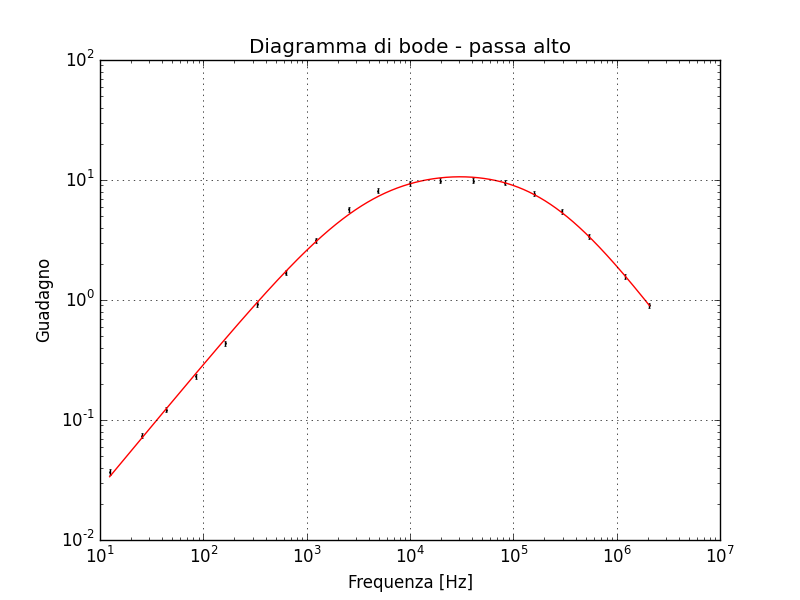
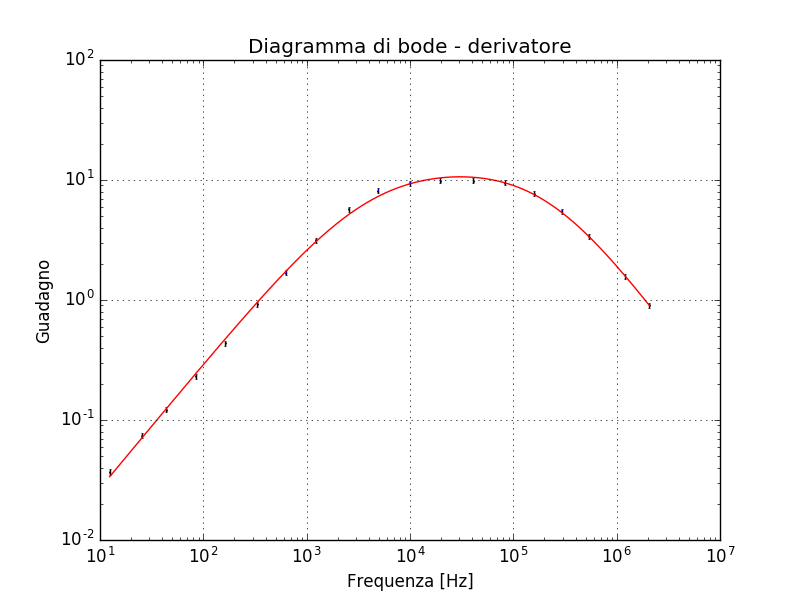
qualcosina...

diff --git a/Esercitazione6/relazione/Relazione6.tex b/Esercitazione6/relazione/Relazione6.tex
@@ -1,0 +1,160 @@
+% !TeX spellcheck = it_IT
+\documentclass[10pt,a4paper]{article}
+
+\usepackage[utf8]{inputenc}
+\usepackage[T1]{fontenc}	
+\usepackage[italian]{babel}
+\usepackage{amsmath}
+\usepackage{amsfonts}
+\usepackage{amssymb}
+\usepackage{graphicx}
+
+\usepackage[left=2cm,right=2cm,top=2cm,bottom=2cm]{geometry}
+\geometry{a4paper}
+
+\usepackage{booktabs} % for much better looking tables
+\usepackage{verbatim}
+\usepackage{subfig} % make it possible to include more than one captioned figure/table in a single 
+
+\usepackage{fancyhdr} % This should be set AFTER setting up the page geometry
+\pagestyle{fancy} % options: empty , plain , fancy
+\renewcommand{\headrulewidth}{0pt} % customise the layout...
+\lhead{}\chead{}\rhead{}
+\lfoot{}\cfoot{\thepage}\rfoot{}
+
+%%% SECTION TITLE APPEARANCE
+\usepackage{sectsty}
+%\allsectionsfont{\sffamily\mdseries\upshape} % (See the fntguide.pdf for font help)
+% (This matches ConTeXt defaults)
+
+% pacchetti che mi fanno schifo ma uso lo stesso (Bob è scemo, ma anche Ale...)
+\usepackage[cdot, thickqspace, squaren]{SIunits}
+% macro che mi piacciono
+\def\code#1{\texttt{#1}}
+
+
+\title{Esercitazione 6: Amplificatore operazionale\\ \Large{\emph{Circuiti lineari}}}
+
+\author{Gruppo BE \\ Alessandro Candido, Roberto Ribatti}
+\date{\today}
+\begin{document}
+\maketitle
+
+\section{Scopo e strumentazione}
+Misurare le caratteristiche di amplificatori invertenti e non invertenti realizzati con un op-amp TL081, da alimentare tra +15 V e -15V.
+La strumentazione usata è quella presente sul banco di lavoro, più il suddetto transistor.
+
+\section{Amplificatore invertente}
+
+\subsection{$V_{out}$ in funzione di $V_{in}$}
+
+\subsection{Impedenza d'ingresso}
+
+\subsection{Risposta in frequenza}
+
+\subsection{Slew rate}
+
+\section{Amplificatore non invertente}
+
+\section{Circuito integratore}
+
+\subsection{Risposta in frequenza}
+Si è misurata la risposta del circuito a un ingresso sinusoidale a varie frequenze. Si riportano i dati relativi in \tablename{\ref{tab:lowpass}}, e i grafici di seguito in \figurename{\ref{fig:lowamp}} e \figurename{\ref{fig:lowph}}.
+
+\begin{figure}[h!]
+	\centering
+	\includegraphics[width=0.65\textwidth]{../grafici/fit_module_low_pass.pdf}
+	\caption{Grafico del fit }
+	\label{fig:lowamp}
+\end{figure}
+\begin{figure}[h!]
+	\centering
+	\includegraphics[width=0.65\textwidth]{../grafici/fit_phase_low_pass.pdf}
+	\caption{Grafico del fit }
+	\label{fig:lowph}
+\end{figure}
+
+Si riportano nella tabella di seguito i risultati del fit:
+
+\begin{table}[h!]
+\centering
+\begin{tabular}{c|ccc}
+amplitude	&	$A_0 = 11.20 \pm 0.27$	&	$f_0 = \unit{388 \pm 13}{\hertz}$	&	$\chi^2/ndof = 41.7 / 12$\\
+phase		&	$\varphi_0 = \unit{-0.007 \pm 0.007}{\pi \rad}$	&	$f_0 = \unit{330 \pm 30}{\hertz}$	&	$\chi^2/ndof = 37.6 / 12$
+\end{tabular}
+\end{table}
+
+\noindent Dove si sono usati i seguenti simboli:
+\begin{itemize}
+\item $A_0$ è il guadagno di centro banda, in questo caso è il guadagno a basse frequenze;
+\item $\varphi_0$ è lo sfasamento per frequenze prossime allo 0;
+\item $f_0$ è la frequenza di taglio dell'integratore.
+\end{itemize}
+
+% i chiquadri non sono splendidi e le due misure della frequenza di taglio poco compatibili, c'è da giustificare un minimo
+
+\subsection{Risposta all'onda quadra}
+
+% c'è da dire cosa ci si aspetta per l'ampiezza dell'onda in uscita, ci sono un sacco di armoniche...
+
+Qualitativamente il comportamento osservato per la risposta del circuito all'onda quadra è esattamente quello di un integratore, almeno a $\unit{10}{\kilo\hertz}$, come si osserva dalla \figurename{\ref{fig:intsq}}.
+
+\begin{figure}[h!]
+	\begin{minipage}[t]{0.45\textwidth}
+		\centering
+		\includegraphics[width=1\textwidth]{../oscilloscopio/sqint.jpg}
+	\end{minipage}
+	\begin{minipage}[t]{0.45\textwidth}
+		\centering
+		\includegraphics[width=1\textwidth]{../oscilloscopio/sqexp.jpg}
+	\end{minipage}
+	\caption{Risposta del circuito integratore a un'onda quadra in ingresso}
+	\label{fig:intsq}
+\end{figure}
+
+Cambiando la frequenza del segnale di input si osserva che per frequenze maggiori il segnale viene ulteriormente attenuato, ma qualitativamente preserva il funzionamento come derivatore, mentre per frequenze più basse il condensatore ha il tempo di caricarsi e si può osservare una serie di esponenziali dovuti proprio a queste cariche e scariche, sempre in \figurename{\ref{fig:intsq}}.
+
+\section{Circuito derivatore}
+
+\subsection{Risposta in frequenza}
+
+\subsection{Risposta all'onda triangolare}
+
+\pagebreak
+\section{Appendice: Dati}
+Si riportano qui le tabelle di dati usati per i fit e i grafici.
+
+\begin{figure}[h!]
+	\centering
+	\resizebox{0.7\textwidth}{!}{
+	\input{../tabelle/tab_low_pass.txt}}
+	\captionof{table}{Dati relativi al circuito integratore}
+	\label{tab:lowpass}
+\end{figure}
+
+\begin{figure}[h!]
+	\centering
+	\resizebox{0.7\textwidth}{!}{
+	\input{../tabelle/tab_high_pass.txt}}
+	\captionof{table}{Dati relativi al circuito integratore}
+	\label{tab:highpass}
+\end{figure}
+
+%\centering
+%\begin{figure}[h!]
+%	\begin{minipage}[t]{0.5\textwidth}
+%		\centering
+%		\resizebox{1\textwidth}{!}{
+%		\input{../tabelle/tab_low_pass.txt}}
+%		\captionof{table}{Dati relativi al circuito integratore}
+%		\label{tab:lowpass}
+%	\end{minipage}
+%	\begin{minipage}[t]{0.5\textwidth}
+%		\resizebox{1\textwidth}{!}{
+%		\input{../tabelle/tab_high_pass.txt}}
+%		\captionof{table}{Dati relativi al circuito integratore}
+%		\label{tab:highpass}
+%	\end{minipage}
+%\end{figure}
+
+\end{document}

diff --git a/Esercitazione6/Esercitazione6.py b/Esercitazione6/Esercitazione6.py
@@ -1,11 +1,11 @@
 from pylab import *
-path = "C:\\Users\\Roberto\\Documents\\GitHub\\Lab3\\"
+#path = "C:\\Users\\Roberto\\Documents\\GitHub\\Lab3\\"
 #path = "C:\\Users\\Studenti\\Desktop\\Lab3\\"
-#path = "/home/alessandro/Documents/Università/3°anno/Laboratorio3/Lab3/"
+path = "/home/alessandro/Documents/Università/3°anno/Laboratorio3/Lab3/"
 sys.path = sys.path + [path]
 from analyzer import *
 import uncertainties
-dir= path + "Esercitazione6\\"
+dir= path + "Esercitazione6/"
 ###########################################################################
 
 #GUADAGNO AMPLIFICATORE INVERTENTE#
@@ -84,21 +84,21 @@ tab=["$V_{OUT}$ [$V$]","Freq. di taglio [Hz]"]
 
 ###########################################################################
 
-#PASSA BASSO MODULO#
+#INTEGRATORE MODULO#
 
 file="low_pass"
 fig = "module_low_pass"
-def f(x, a , b, c):
-    return a*1/(1+(x/b)**c)
+def f(x, a , b):
+    return a*1/(1+x/b)
 
-p0=[1,1,1]
+p0=[1,1]
 
 def XYfun(a):
     return a[0],a[2]/a[3]
 
 unit=["tempo_osc","tempo_osc","volt_osc","volt_osc"]
 
-titolo="Diagramma di bode - passa basso"
+titolo="Diagramma di bode - integratore"
 Xlab="Frequenza [Hz]"
 Ylab="Guadagno"
 
@@ -108,21 +108,22 @@ tab=["Frequenza [Hz]","Sfasamento [s]","$V_{OUT}$ [$V$]","$V_{IN}$ [$V$]"]
 
 ###########################################################################
 
-#PASSA BASSO FASE#
+#INTEGRATORE FASE#
 
 file="low_pass"
 fig = "phase_low_pass"
 def f(x, a,b):
-    return arctan(a*x)+b
+    return arctan(x/a) + b
+
 
 p0=[1,1]
 
 def XYfun(a):
-    return a[0],pi*a[1]*a[0]
+    return a[0],2*pi*(a[1]*a[0] - 1/2)
 
 unit=["tempo_osc","tempo_osc","volt_osc","volt_osc"]
 
-titolo="Diagramma di bode - passa basso"
+titolo="Diagramma di bode - integratore"
 Xlab="Frequenza [Hz]"
 Ylab="Fase [rad]"
 
@@ -130,7 +131,7 @@ Ylab="Fase [rad]"
 
 ###########################################################################
 
-#PASSA ALTO MODULO#
+#DERIVATORE MODULO#
 
 file="high_pass"
 fig="module_high_pass"
@@ -144,7 +145,7 @@ def XYfun(a):
 
 unit=["tempo_osc","volt_osc","volt_osc","tempo_osc"]
 
-titolo="Diagramma di bode - passa alto"
+titolo="Diagramma di bode - derivatore"
 Xlab="Frequenza [Hz]"
 Ylab="Guadagno"
 
@@ -154,24 +155,24 @@ tab=["Frequenza [Hz]","$V_{IN}$ [$V$]","$V_{OUT}$ [$V$]","Sfasamento [s]"]
 
 ###########################################################################
 
-#PASSA ALTO FASE#
+#DERIVATORE FASE#
 
 file="high_pass"
 fig="phase_high_pass"
-def f(x, a,b):
-    return arctan(a*x)+b
+def f(x, a, b, c):
+    return arctan((a/x - x)/b) + c
 
-p0=[1,1]
+p0=[2.18e5, 3e3,0]
 
 def XYfun(a):
-    return a[0],a[3]*a[0]
+    return a[0], pi/2*(1-a[3]*a[0])
 
 unit=["tempo_osc","volt_osc","volt_osc","tempo_osc"]
 
-titolo="Diagramma di bode - passa alto"
+titolo="Diagramma di bode - derivatore"
 Xlab="Frequenza [Hz]"
 Ylab="Fase [rad]"
 
-#fit(dir,file,unit,f,p0,titolo,Xlab,Ylab,XYfun, preplot = True, Xscale="log",fig=fig)
+fit(dir,file,unit,f,p0,titolo,Xlab,Ylab,XYfun, Xscale="log", preplot = True,fig=fig, scarti=True)
 
 ###########################################################################

diff --git a/Esercitazione6/freq_derivatore.py b/Esercitazione6/freq_derivatore.py
@@ -1,0 +1,14 @@
+# coding: utf-8
+from uncertainties import *
+from pylab import *
+cm =  [[1.,  0.61210657, -0.66267107],
+ [0.61210657 , 1., -0.37495779],
+ [-0.66267107, -0.37495779, 1.]]
+(a,b,c) = correlated_values_norm([(1.01e+06 , 5.e+04), (4.84e+05 , 1.0e+04), (1.0764 , 0.0024)], cm)
+
+# la matrice di correlazione e i parametri sono il risultato di un fit
+
+f1 = (b + (b**2 - 4*a)**0.5)/2
+f2 = (b - (b**2 - 4*a)**0.5)/2
+
+# sono le frequenze di taglio del derivatore, infatti a e b rappresentano il prodotto e la somma
